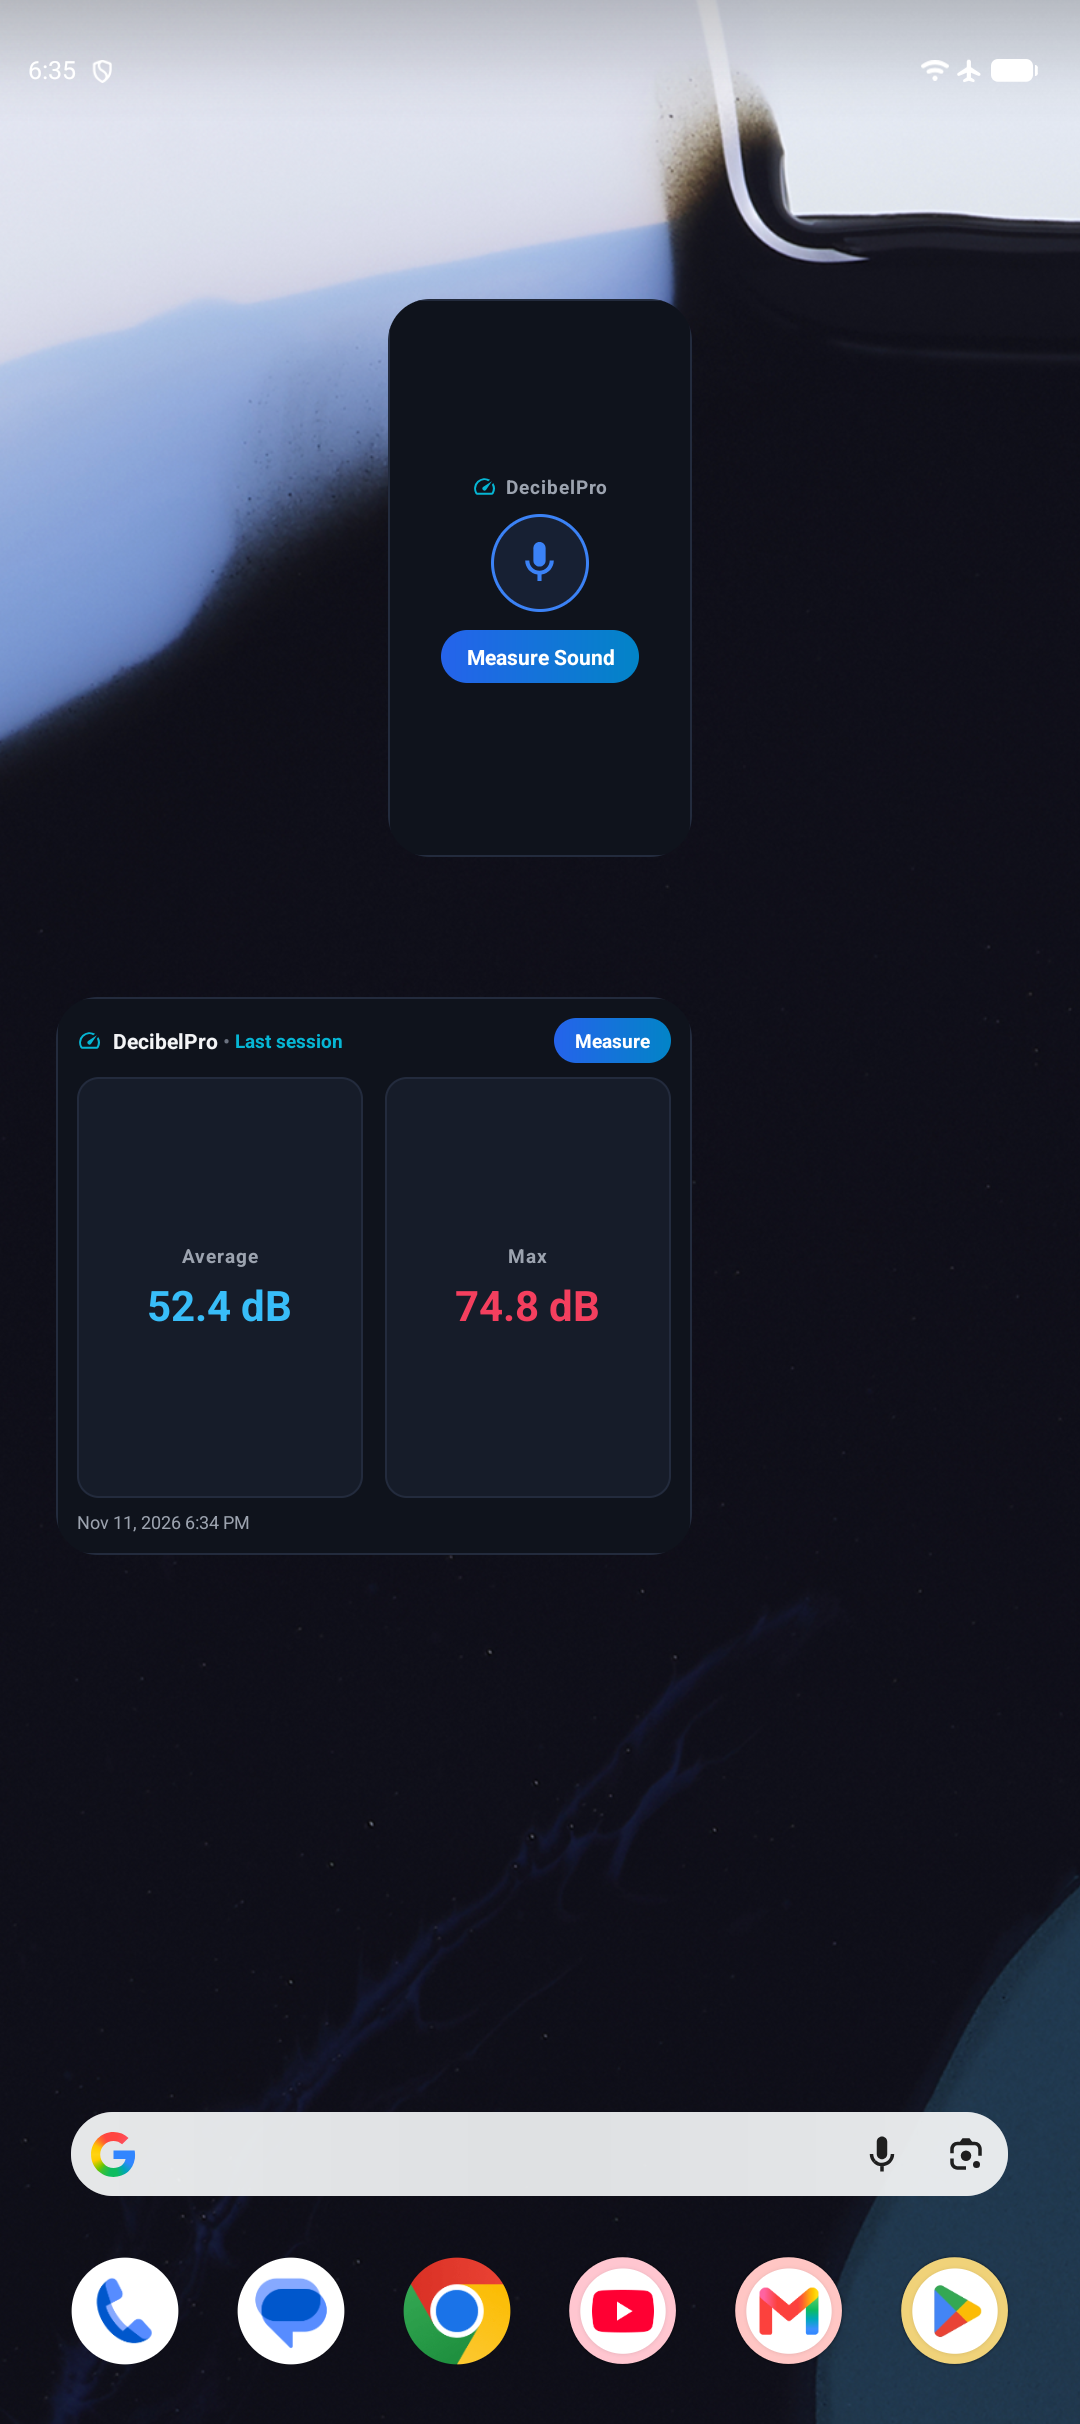
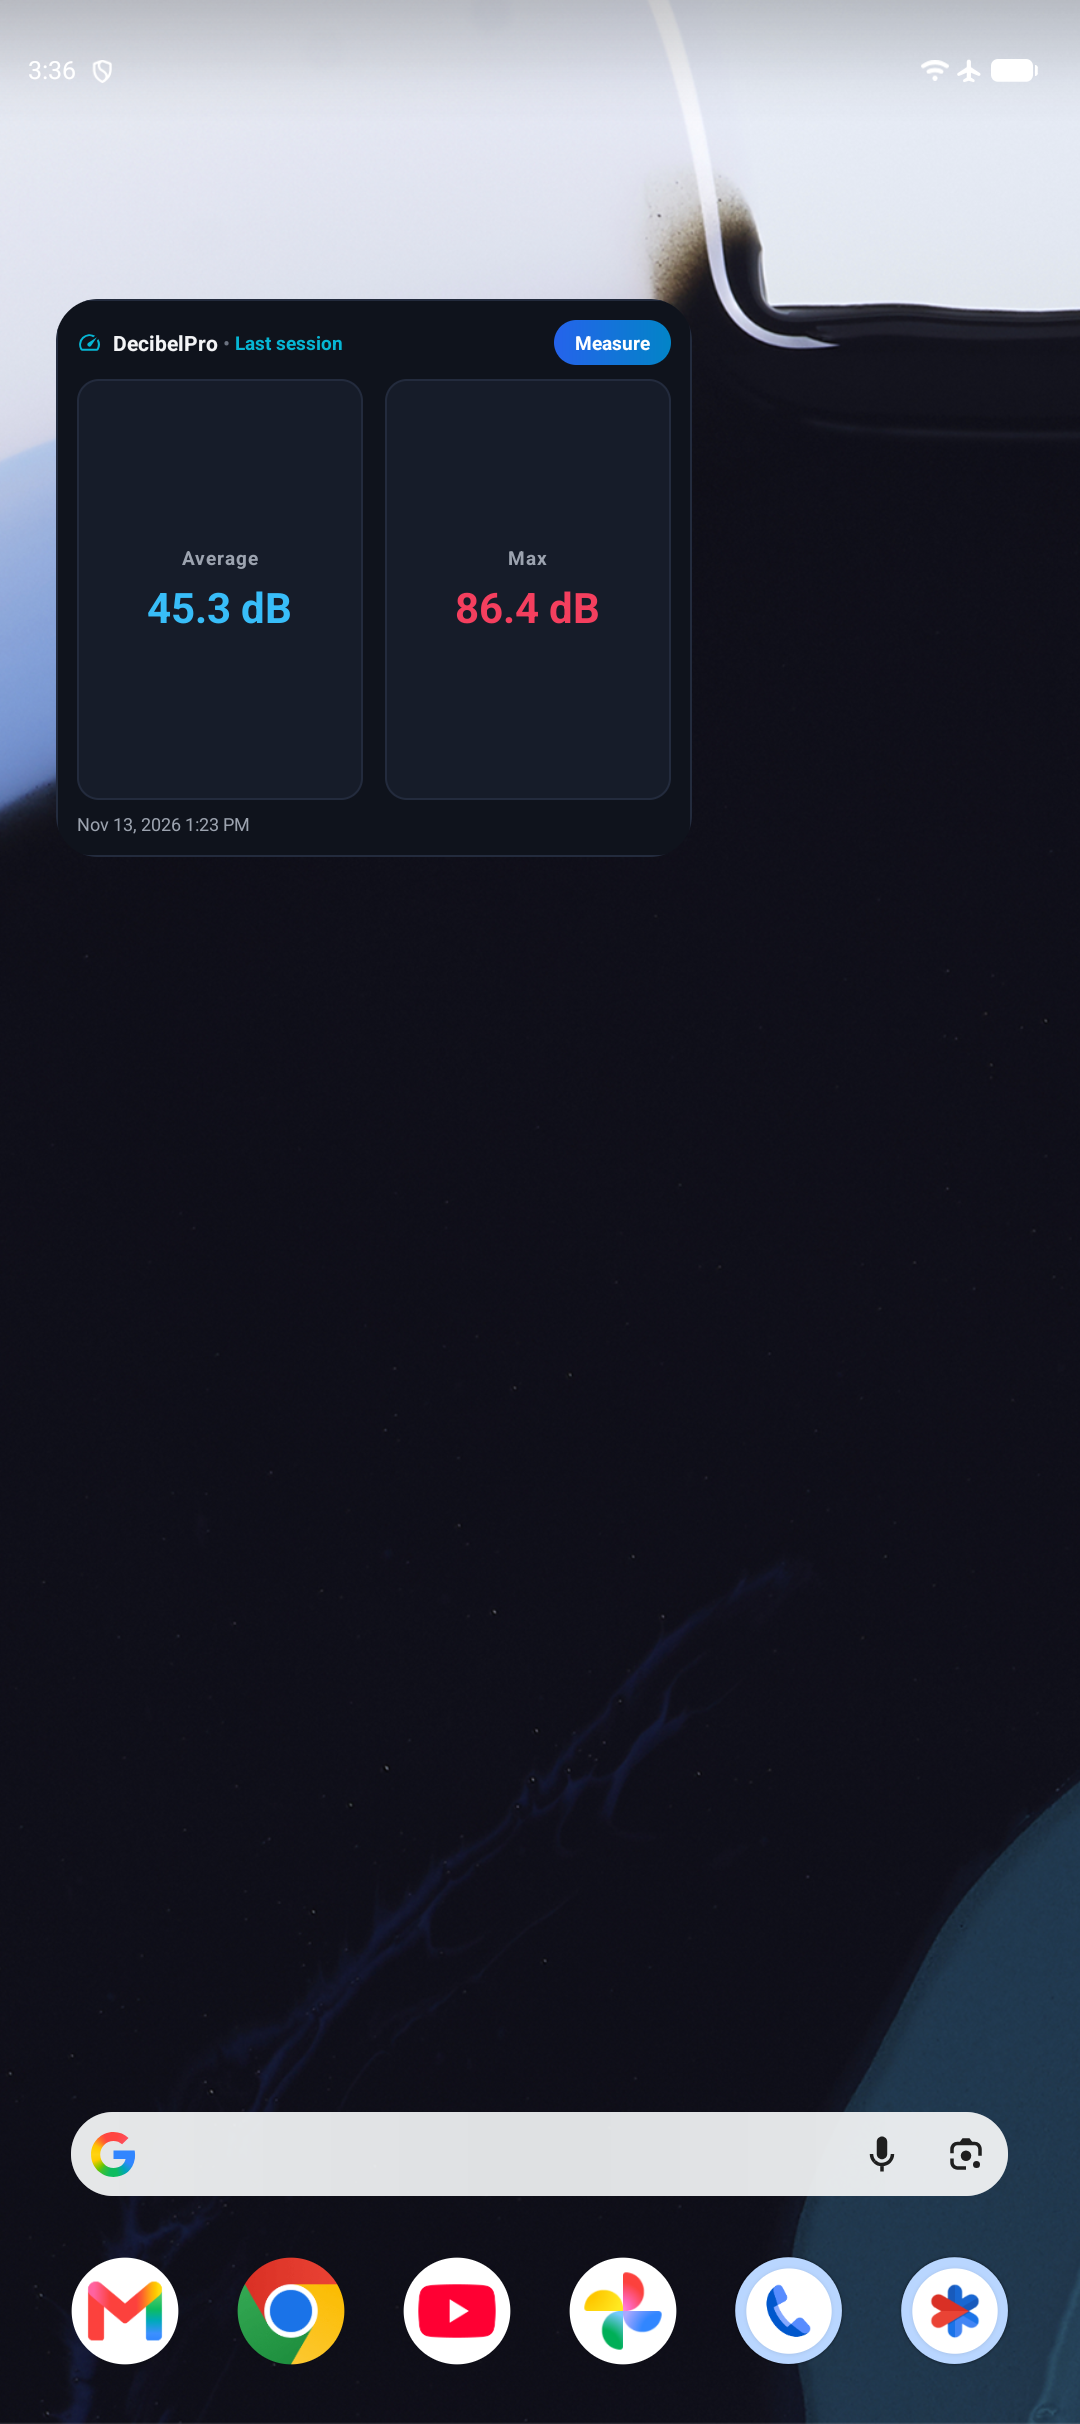
feat(decibel-pro): consolidate to single wide widget, update previews, installation guides & FAQs

diff --git a/decibel-pro/index.html b/decibel-pro/index.html
@@ -1038,6 +1038,19 @@
                 </div>
 
                 <div class="feature-card">
+                    <div class="feature-icon-wrapper">📱</div>
+                    <h3 class="feature-title">Wide Home Screen Widget</h3>
+                    <p class="feature-text">
+                        Glanceable Medium (4x2) widget on iOS and Android. Displays frozen paused session snapshots with one-tap instant resume, or your latest saved measurement summary.
+                    </p>
+                    <div style="margin-top: 12px;">
+                        <span class="badge-pill" style="font-size: 0.72rem; padding: 2px 8px; margin: 0; background: rgba(245, 158, 11, 0.15); border-color: rgba(245, 158, 11, 0.4); color: #fbbf24;">
+                            ⏳ Coming in next update
+                        </span>
+                    </div>
+                </div>
+
+                <div class="feature-card">
                     <div class="feature-icon-wrapper">🔒</div>
                     <h3 class="feature-title">100% Private & On-Device</h3>
                     <p class="feature-text">
@@ -1050,55 +1063,64 @@
         <!-- Home Screen Widgets Section -->
         <section id="widgets" style="padding-top: 40px; margin-bottom: 70px;">
             <div style="text-align: center; margin-bottom: 36px;">
-                <div class="badge-pill" style="margin-bottom: 12px; display: inline-flex; background: rgba(6, 182, 212, 0.12); border-color: rgba(6, 182, 212, 0.3); color: var(--cyan);">
-                    <span>⏳</span> Coming in the next update
+                <div class="badge-pill" style="margin-bottom: 12px; display: inline-flex; background: rgba(245, 158, 11, 0.15); border-color: rgba(245, 158, 11, 0.4); color: #fbbf24;">
+                    <span>⏳</span> Coming in the next update (v1.1.0)
                 </div>
-                <h2 class="section-title">Home Screen Widgets</h2>
-                <p class="section-desc">Quick-access sound measurement and saved session summaries right from your iOS and Android home screen.</p>
+                <h2 class="section-title">Wide Home Screen Widget</h2>
+                <p class="section-desc">One unified, glanceable wide widget designed for real-world acoustic monitoring. No background microphone drain, truthful frozen session snapshots, and one-tap resume.</p>
+            </div>
+
+            <!-- Single Widget Consolidation Explainer Card -->
+            <div class="info-card" style="margin-bottom: 32px; background: rgba(59, 130, 246, 0.05); border-color: rgba(59, 130, 246, 0.25);">
+                <div style="display: flex; align-items: center; gap: 10px; margin-bottom: 10px;">
+                    <span style="font-size: 1.4rem;">🎯</span>
+                    <h3 style="margin-bottom: 0; font-size: 1.2rem; color: #ffffff;">Streamlined to One Wide Widget</h3>
+                </div>
+                <p style="margin-bottom: 0; font-size: 0.94rem; color: var(--text-sec); line-height: 1.55;">
+                    In our upcoming update, we have consolidated our home screen widgets to keep <strong>only the wide Medium (4x2) widget</strong> on both Apple iOS and Android. The small square launcher shortcut widget has been retired from the widget picker because it only opened the app without showing useful context. The wide widget combines frozen session recovery, latest saved metrics, and quick launching in one clean card.
+                </p>
             </div>
 
             <div class="widgets-grid">
                 <!-- Apple iOS Preview Card -->
                 <div class="widget-card">
                     <div class="widget-image-container">
-                        <img src="assets/widget-ios-preview.png" alt="DecibelPro iOS Home Screen Widgets Preview" loading="lazy">
+                        <img src="assets/widget-ios-preview.png" alt="DecibelPro iOS Wide Home Screen Widget Preview" loading="lazy">
                     </div>
                     <div class="widget-card-content">
                         <span class="platform-tag ios">iOS & iPadOS</span>
-                        <h3>Native Apple Home Screen Widgets</h3>
-                        <p>Designed for iOS 15 through iOS 18 with high-contrast dark aesthetic and instant launcher interactions.</p>
+                        <h3>Native Apple Wide Widget (Medium • 4×2)</h3>
+                        <p>Designed for iOS 15 through iOS 18 with high-contrast dark aesthetic, WidgetKit timeline caching, and instant app deep linking.</p>
                         <ul class="widget-feature-list">
-                            <li><span>🎙</span> <span><strong>Measure Sound (Small • 2×2):</strong> Instant one-tap shortcut straight into live sound measurement with automatic ad suppression.</span></li>
-                            <li><span>📊</span> <span><strong>Last Session (Medium • 4×2):</strong> Dual-mode widget showing your latest saved session summary (Average dB, Peak dB, and timestamp) or <em>"Measurement paused"</em> with frozen stats and an <em>"Open session"</em> action when backgrounded during an active measurement.</span></li>
-                            <li><span>⚡</span> <span><strong>Direct History Deep Link:</strong> Tapping the card opens that exact record or paused session in the app; tapping "Measure" starts a fresh session.</span></li>
+                            <li><span>⏸</span> <span><strong>Paused Measurement Snapshot:</strong> When backgrounded while measuring, the widget shows <em>"Measurement paused"</em> with frozen Average & Peak dB stats, static pause timestamp, and an <em>"Open session"</em> action button.</span></li>
+                            <li><span>📊</span> <span><strong>Latest Saved Session:</strong> When no measurement is paused, displays your most recent saved session summary (Average dB, Peak dB, and timestamp) with a direct <em>"Measure"</em> shortcut.</span></li>
+                            <li><span>⚡</span> <span><strong>Clean Ready State:</strong> Before your first measurement or after clearing history, shows a minimal, ready-to-measure card prompting you to launch the sound meter.</span></li>
                         </ul>
-                        <p style="font-size: 0.8rem; color: var(--text-sec); margin-top: 8px; font-style: italic;">* Displayed values (e.g. 54.2 dB Average, 78.9 dB Peak) represent saved example measurements for demonstration.</p>
                     </div>
                 </div>
 
                 <!-- Android Preview Card -->
                 <div class="widget-card">
                     <div class="widget-image-container">
-                        <img src="assets/widget-android-preview.png" alt="DecibelPro Android Home Screen Widgets Preview" loading="lazy">
+                        <img src="assets/widget-android-preview.png" alt="DecibelPro Android Wide AppWidget Preview" loading="lazy">
                     </div>
                     <div class="widget-card-content">
                         <span class="platform-tag android">Android</span>
-                        <h3>Glanceable Android App Widgets</h3>
-                        <p>Battery-friendly Android AppWidgets engineered for modern launchers with balanced typography and zero background mic drain.</p>
+                        <h3>Glanceable Android Wide Widget (4×2)</h3>
+                        <p>Battery-friendly Android AppWidget engineered for modern launchers with balanced typography, Material You integration, and zero background mic drain.</p>
                         <ul class="widget-feature-list">
-                            <li><span>🎙</span> <span><strong>Measure Sound (Small • 2×2):</strong> Fast, responsive launcher shortcut to launch the decibel meter without delay.</span></li>
-                            <li><span>📈</span> <span><strong>Last Session (Medium • 4×2):</strong> High-visibility Average dB & Max dB metrics. Automatically transitions to <em>"Measurement paused"</em> with frozen stats and <em>"Open session"</em> when backgrounded during measurement.</span></li>
-                            <li><span>📲</span> <span><strong>1-Tap Home Screen Pinning:</strong> Add directly via your launcher widget picker or use in-app pinning from Settings.</span></li>
+                            <li><span>⏸</span> <span><strong>Dual-Mode State Machine:</strong> Displays frozen <em>"Measurement paused"</em> metrics upon leaving the app, or your latest saved session summary when idle.</span></li>
+                            <li><span>📲</span> <span><strong>1-Tap Home Screen Pinning:</strong> Add directly via your launcher widget picker or use the convenient in-app pin button in DecibelPro Settings.</span></li>
+                            <li><span>⏱</span> <span><strong>Truthful Expiry Protection:</strong> Automatically expires paused snapshots after 15 minutes if the app process is terminated, gracefully returning to your saved history rather than showing stale claims.</span></li>
                         </ul>
-                        <p style="font-size: 0.8rem; color: var(--text-sec); margin-top: 8px; font-style: italic;">* Displayed values (e.g. 52.4 dB Average, 74.8 dB Max) represent saved example measurements for demonstration.</p>
                     </div>
                 </div>
             </div>
 
-            <!-- Installation & Privacy Box -->
+            <!-- Installation Instructions -->
             <div class="info-card" style="margin-bottom: 24px;">
                 <h3 style="display: flex; align-items: center; gap: 10px; font-size: 1.25rem;">
-                    <span>📲</span> How to Add Widgets to Your Home Screen
+                    <span>📲</span> How to Add the Wide Widget to Your Home Screen
                 </h3>
                 <div style="display: grid; grid-template-columns: repeat(auto-fit, minmax(280px, 1fr)); gap: 24px; margin-top: 18px;">
                     <div style="background: rgba(255, 255, 255, 0.03); border: 1px solid var(--border); border-radius: 14px; padding: 20px;">
@@ -1109,7 +1131,7 @@
                             <li>Touch and hold any empty area on your Home Screen until the apps jiggle.</li>
                             <li>Tap the <strong>+</strong> button in the top corner to open the Widget Gallery.</li>
                             <li>Search for <strong>DecibelPro</strong> and tap it.</li>
-                            <li>Swipe to choose <strong>Measure Sound</strong> (Small) or <strong>Last Session</strong> (Medium), then tap <strong>Add Widget</strong>.</li>
+                            <li>Select the <strong>Wide Last Session (Medium 4x2)</strong> widget and tap <strong>Add Widget</strong>.</li>
                         </ol>
                     </div>
 
@@ -1119,8 +1141,8 @@
                         </h4>
                         <ol style="padding-left: 20px; color: var(--text-sec); font-size: 0.92rem; line-height: 1.6; margin: 0;">
                             <li>Touch and hold an empty space on your home screen, then tap <strong>Widgets</strong>.</li>
-                            <li>Scroll to <strong>DecibelPro</strong> and drag your preferred widget onto your home screen.</li>
-                            <li><em>Quick Shortcut:</em> You can also open <strong>DecibelPro &rarr; Settings &rarr; Home Screen Widgets</strong> to pin widgets directly on supported launchers.</li>
+                            <li>Scroll to <strong>DecibelPro</strong> and drag the <strong>4x2 Last Session</strong> widget onto your home screen.</li>
+                            <li><em>Quick Shortcut:</em> You can also open <strong>DecibelPro &rarr; Settings &rarr; Home Screen Widgets</strong> and tap <strong>Pin Last Session Widget</strong> to add it instantly on supported launchers.</li>
                         </ol>
                     </div>
                 </div>
@@ -1128,12 +1150,14 @@
                 <!-- Troubleshooting & Important Notes -->
                 <div class="support-cta-box" style="margin-top: 24px;">
                     <p style="font-weight: 700; color: var(--text); font-size: 1rem; margin-bottom: 8px;">
-                        💡 Widget Information & Troubleshooting
+                        💡 Widget Information & Frequently Asked Questions
                     </p>
                     <ul style="padding-left: 20px; color: var(--text-sec); font-size: 0.92rem; line-height: 1.6; margin-bottom: 0;">
-                        <li><strong>Saved & Paused Readings vs. Live Audio:</strong> Displayed decibel readings reflect saved measurements or frozen metrics from a paused session. When you background DecibelPro during measurement, microphone recording stops immediately to conserve battery and eliminate hardware contention. The widget shows <em>"Measurement paused"</em> with frozen stats until you tap <em>"Open session"</em> to resume or save. The widgets do <em>not</em> perform continuous background audio recording.</li>
-                        <li><strong>Missing Widget in Picker:</strong> If you don't see DecibelPro in your widget list immediately after updating, open the DecibelPro app at least once so the operating system registers the widget extension, or perform a quick restart of your launcher.</li>
-                        <li><strong>Empty or Stale Sessions:</strong> If the widget displays <em>"No saved sessions yet,"</em> simply open the app, tap <em>Start Meter</em>, and save a measurement. If you delete a session or clear your history in Settings, the widget automatically updates to reflect the change.</li>
+                        <li><strong>Does the widget record sound in the background?</strong> No, never. In strict adherence to user privacy and battery preservation standards, DecibelPro halts all microphone audio capture whenever the app is backgrounded or minimized. The widget displays only frozen snapshots of your paused session or your latest saved record. No audio is ever captured, analyzed, or recorded in the background.</li>
+                        <li><strong>Why is there only one wide widget format?</strong> We streamlined our widget catalog to remove the small 1x1 launcher shortcut. The 4x2 wide widget delivers full actionable context in one place: paused session snapshots, frozen averages and peaks, pause timestamps, one-tap resume, and your latest saved measurement summary.</li>
+                        <li><strong>What does the "Open session" action do?</strong> When you leave DecibelPro while measuring sound, your active session is safely paused. Tapping <em>Open session</em> on the widget brings you straight back to the meter screen, allowing you to review your ambient noise reading and resume or save the measurement seamlessly.</li>
+                        <li><strong>What happens if the app process is terminated while paused?</strong> If the operating system reclaims memory or closes the app process during a pause, DecibelPro maintains truthful integrity: the paused snapshot automatically expires after 15 minutes, transitioning gracefully back to your latest saved measurement. The widget never displays misleading phantom timers or claims a dead session is running.</li>
+                        <li><strong>Empty or Cleared History:</strong> If the widget displays <em>"No saved sessions yet,"</em> simply open the app, tap <em>Start Meter</em>, and save a measurement. If you delete a session or tap <em>Clear All History</em> in Settings, the widget automatically updates to reflect the clean state.</li>
                     </ul>
                 </div>
             </div>
